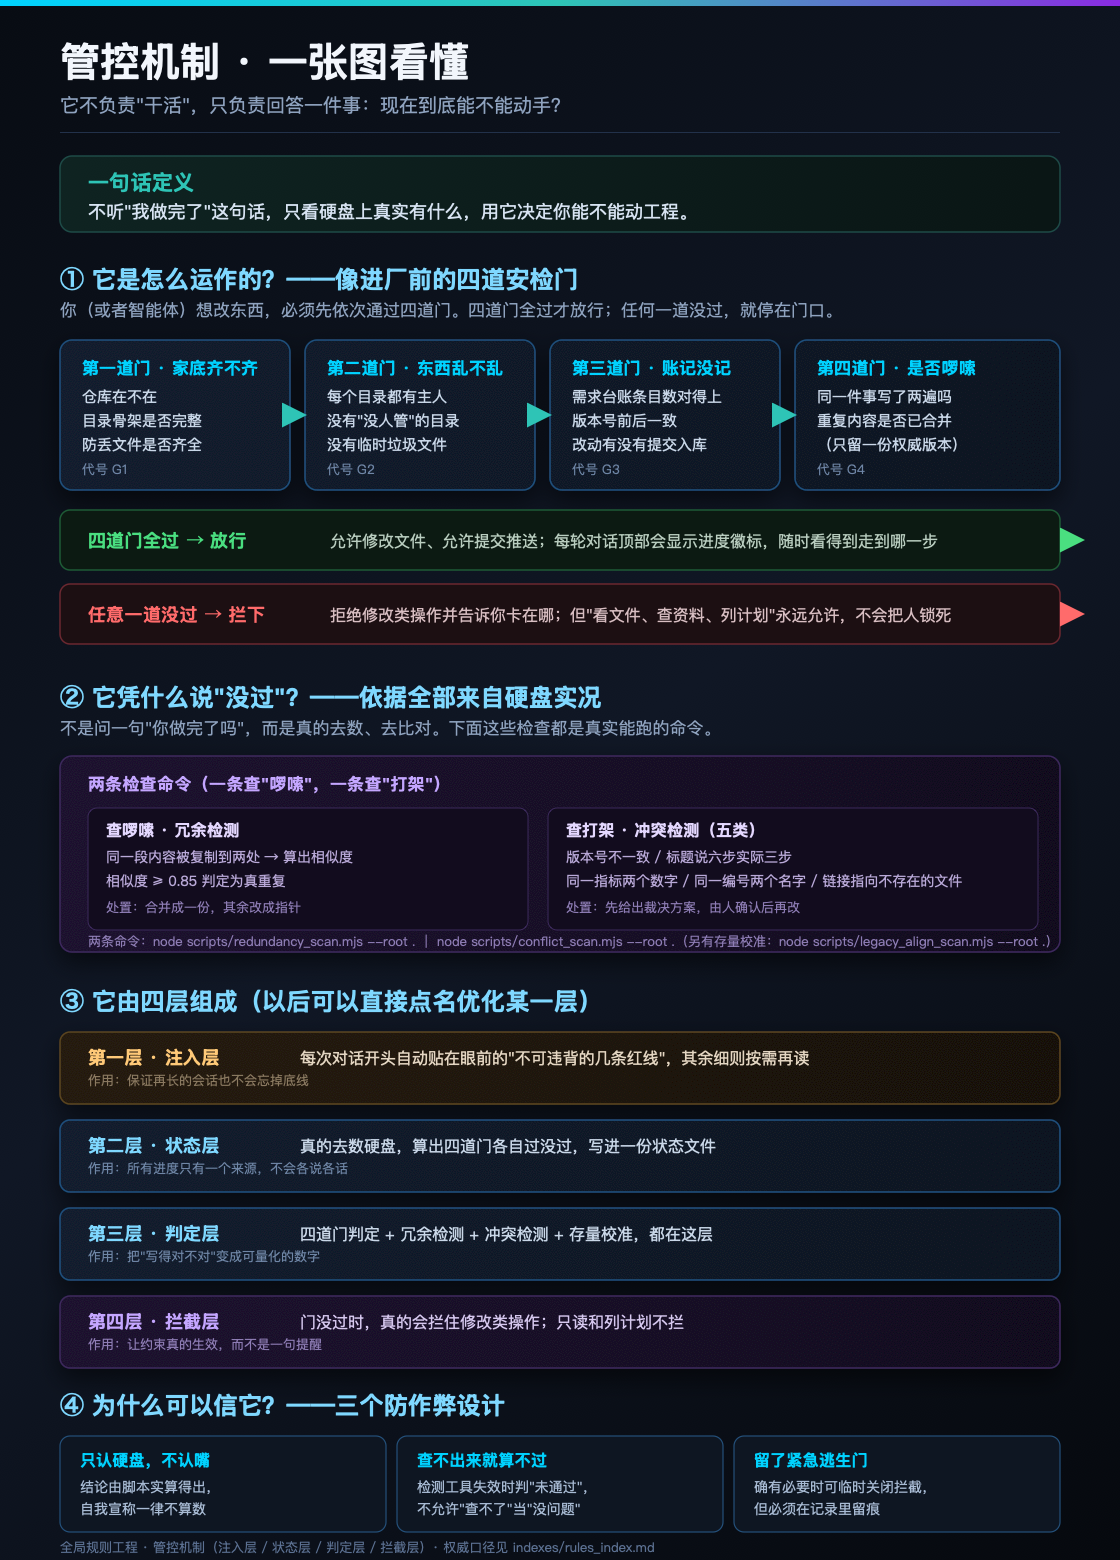
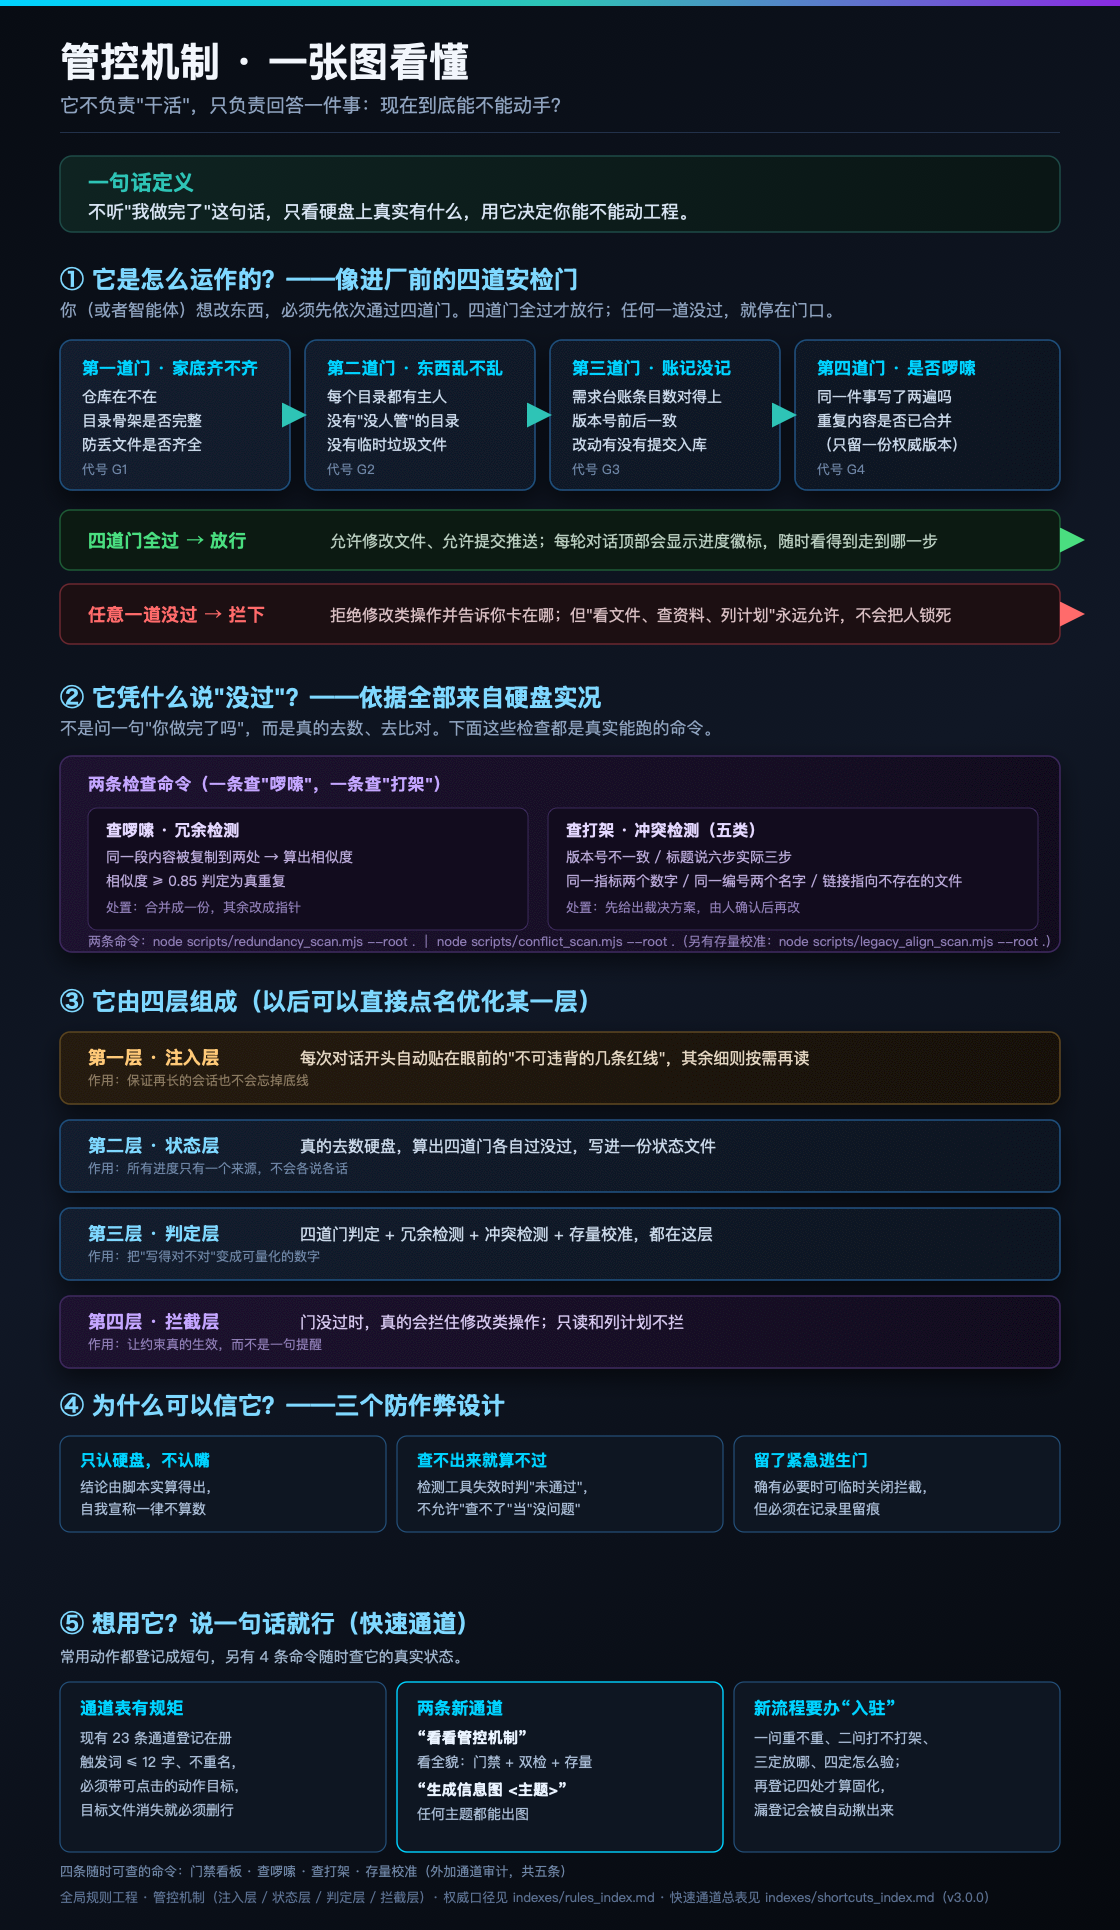
feat(sync): [REQ-045~046] 管控机制信息图更新到v3.0.0 - 按生成信息图通道把教学图扩到 1120x1930，新增第五部分快速通道：通道表规矩（23 条、触发词<=12字、必须带可点击目标、目标消失必删行）、两条新通道（看看管控机制看全貌、生成信息图任何主题）、新流程入驻四步与漏登记自动揪出；页脚补快速通道总表指针与版本口径；SVG 与 PNG 同步更新

Changed region(s): [[0.0312, 0.0, 0.9688, 1.0]]

diff --git a/memory/asset_fingerprint_ledger.md b/memory/asset_fingerprint_ledger.md
@@ -3,7 +3,7 @@
 > ### 🏷 **版本信息与实施追踪**
 > - **当前台账版本**：`v3.0.0`
 > - **基线对齐版本**：`v3.0.0`
-> - **最后全盘扫描时间**：2026-09-23 06:44
+> - **最后全盘扫描时间**：2026-09-23 06:45
 > - **自动化引擎**：遵循 [`scripts/fingerprint_audit.sh`](../scripts/fingerprint_audit.sh)
 
 本文档记录工程全域受管资产（规则、知识库、架构索引、工程模板、自动化脚本与需求台账）的**数字指纹（SHA-256 8位短哈希）**、**最后修改时间**与**新鲜度等级**，为全域资产对齐与防止暗中代码漂移提供唯一客观事实依据。
